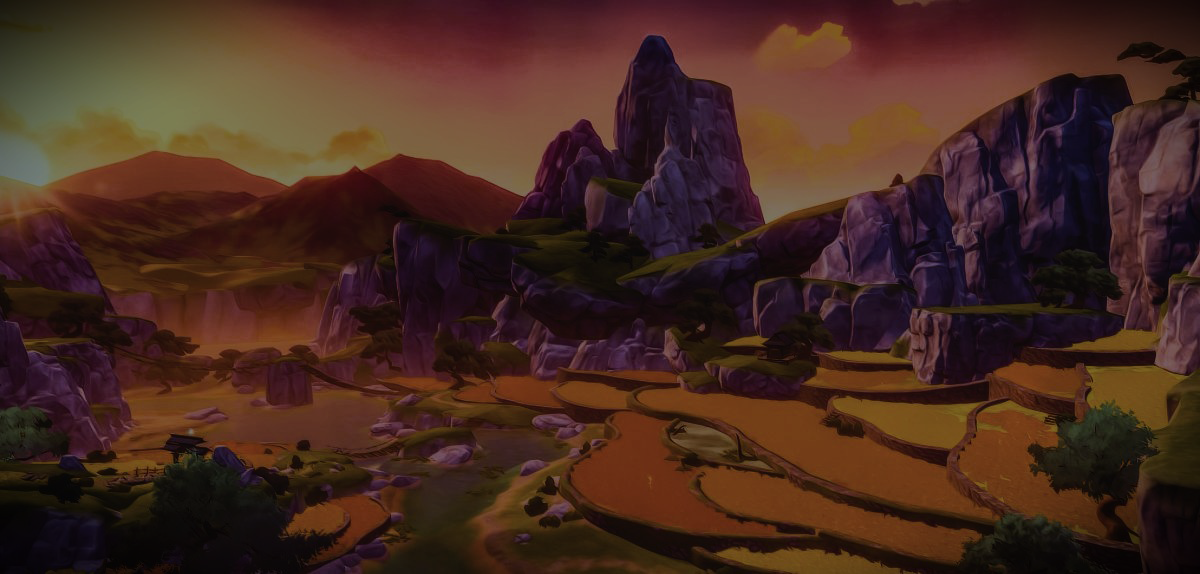
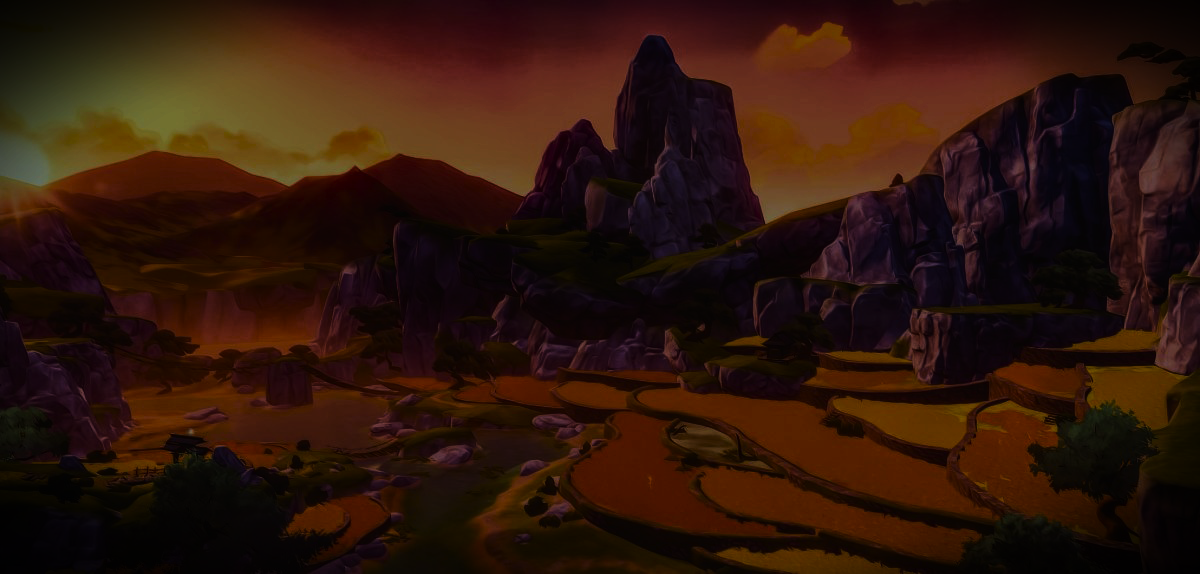
тема сохраняется в localStorege

diff --git a/html/Characters_page/Kaveh.html b/html/Characters_page/Kaveh.html
@@ -16,7 +16,7 @@
         </div>
         <div class="menu">
             <p class="pp1"><a href="../news.html">Новости</a> <a href="../region.html">Регионы</a> <a href="../elements.html">Стихии</a> <a href="../characters.html">Персонажи</a> <a href="../enemies.html">Враги</a> <a href="../tests.html">Тесты</a></p>
-            <button id="tema">Ночь</button>
+            <button id="tema"></button>
         </div>
         <div class="content">
             <h1>Кавех</h1>
@@ -46,16 +46,48 @@
             
             
             <h2>О персонаже:</h2>
-            <p>Земля Сумеру неистощима талантами, здесь живёт целая плеяда известных дизайнеров. Но когда речь заходит об архитекторах, люди первым делом вспоминают имя Кавеха. Выпускник Кшахревара, он считается лучшим архитектором последних десятилетий. Его называют Светочем Кшахревара. Однако сам Кавех не воспринимает похвалы всерьёз. Безусловно, слава и известность означают признание, но подчас они становятся для человека тяжёлым бременем. Известность вынуждает Кавеха вдвойне стыдиться своего банкротства. Обычному человеку ничего не стоит признаться, что он на мели, другое дело - когда ты знаменитый архитектор: подобные признания могут попросту испортить твою репутацию. Поэтому Кавех избегает разговоров о своём финансовом положении и делает вид, что его жизнь прекрасна и беззаботна. К счастью, люди этому верят, ведь он выдающийся архитектор с уникальным чувством прекрасного. Разве может быть, чтобы великий Кавех страдал от каких-то житейских неурядиц?</p>
+            <p>Земля Сумеру неистощима талантами, здесь живёт целая плеяда известных дизайнеров.
+                Но когда речь заходит об архитекторах, люди первым делом вспоминают имя Кавеха.
+                Выпускник Кшахревара, он считается лучшим архитектором последних десятилетий. Его называют Светочем Кшахревара. Однако сам Кавех не воспринимает похвалы всерьёз. Безусловно, слава и известность означают признание, но подчас они становятся для человека тяжёлым бременем. Известность вынуждает Кавеха вдвойне стыдиться своего банкротства. Обычному человеку ничего не стоит признаться, что он на мели, другое дело - когда ты знаменитый архитектор: подобные признания могут попросту испортить твою репутацию. Поэтому Кавех избегает разговоров о своём финансовом положении и делает вид, что его жизнь прекрасна и беззаботна. К счастью, люди этому верят, ведь он выдающийся архитектор с уникальным чувством прекрасного. Разве может быть, чтобы великий Кавех страдал от каких-то житейских неурядиц?</p>
             
             <h2>История 1(ур др 2):</h2>
-            <p>Даже сегодня возле дворца Алькасар-сарай или в стенах Академии можно услышать, как студенты Кшахревара обсуждают Кавеха, своего знаменитого предшественника. Для них он гений, выдающийся архитектор, которому не было равных на протяжении всех последних десятилетий. Невероятное мастерство позволило Кавеху вписать своё имя в анналы Академии. При встрече со студентами из Кшахревара вам наверняка придётся выслушать, как сильно они восхищаются достижениями своего предшественника: чего стоит один дворец Алькасар-сарай, построенный по его проекту. А реставрация культового маяка в Порт-Ормосе, а реконструкция системы транспортных и подъёмных устройств в том же Порт-Ормосе! А ещё он первым предложил метод экологической оптимизации пространства! Все эти достижения сделали имя Кавеха нарицательным при определении успеха на архитектурном поприще. Многие коллеги мечтают о такой карьере: блестящий студент, которого сразу после выпуска пригласили работать в престижное архитектурное бюро, а через несколько лет он основал своё собственное дело. На этом все рассказы непосвящённых обычно заканчиваются: никто не знает правды, которую сам Кавех всеми силами старается скрыть. Он талантлив, этого не отнять, но вот жизнь Кавеха, к сожалению, далека от идеала, который представляют себе непосвящённые. Резюмируя свой прошлый опыт, Кавех сказал бы так: недоразумения досадны, но неизбежны. Люди иногда оказываются в плену стереотипов. Например, они представляют, что архитекторы загребают мору лопатой и становятся знаменитыми, сделав пару росчерков пера на бумаге. В глазах людей любой художник - ленивый, эгоцентричный, вспыльчивый и импульсивный человек, который любит покомандовать другими. Кавех не подходит под это описание. Его проекты отнимают много времени и усилий, и он очень серьёзно относится к работе. Он одевается элегантно и изысканно, но не судит о достоинстве проекта только по размеру вознаграждения. Его профессиональные принципы намного твёрже, чем у большинства жителей Сумеру, он считает архитектуру производным от искусства, но не позволяет себе жертвовать удобством и практичностью в угоду эстетике. Чтобы проект сочетал в себе красоту и функциональность, Кавех готов пойти на некоторые жертвы... Иногда он жертвует лишним декором, иногда - своими выходными, а иногда... даже вознаграждением. Долгие годы упорного труда привели его к успеху. Дворец Алькасар-сарай был завершён, и Кавех вернулся в Сумеру, увенчанный славой. Его коллеги без умолку хвалили легендарный дворец на вершине большого дерева, поражаясь необыкновенной фантазией его создателя. Они восхищались сочетанием функциональности и нарратива, точности в деталях и совершенства линий, благодаря которому дворец буквально преобразил горы, среди которых был построен. Никто не посмел сказать, что Алькасар-сарай был просто успешной авантюрой Кавеха. И никто не знал, что излишняя принципиальность в сочетании с чередой неудач на проекте привела Кавеха к банкротству. Правда скрыта от людей так же надёжно, как усилия, которые помогли Кавеху добиться успеха.</p>
+            <p>Даже сегодня возле дворца Алькасар-сарай или в стенах Академии можно услышать, как студенты Кшахревара обсуждают Кавеха, своего знаменитого предшественника.
+                Для них он гений, выдающийся архитектор, которому не было равных на протяжении всех последних десятилетий.
+                Невероятное мастерство позволило Кавеху вписать своё имя в анналы Академии.
+                При встрече со студентами из Кшахревара вам наверняка придётся выслушать, как сильно они восхищаются достижениями своего предшественника: чего стоит один дворец Алькасар-сарай, построенный по его проекту. А реставрация культового маяка в Порт-Ормосе, а реконструкция системы транспортных и подъёмных устройств в том же Порт-Ормосе! А ещё он первым предложил метод экологической оптимизации пространства! Все эти достижения сделали имя Кавеха нарицательным при определении успеха на архитектурном поприще. Многие коллеги мечтают о такой карьере: блестящий студент, которого сразу после выпуска пригласили работать в престижное архитектурное бюро, а через несколько лет он основал своё собственное дело. На этом все рассказы непосвящённых обычно заканчиваются: никто не знает правды, которую сам Кавех всеми силами старается скрыть. Он талантлив, этого не отнять, но вот жизнь Кавеха, к сожалению, далека от идеала, который представляют себе непосвящённые. Резюмируя свой прошлый опыт, Кавех сказал бы так: недоразумения досадны, но неизбежны. Люди иногда оказываются в плену стереотипов. Например, они представляют, что архитекторы загребают мору лопатой и становятся знаменитыми, сделав пару росчерков пера на бумаге. В глазах людей любой художник - ленивый, эгоцентричный, вспыльчивый и импульсивный человек, который любит покомандовать другими. Кавех не подходит под это описание. Его проекты отнимают много времени и усилий, и он очень серьёзно относится к работе. Он одевается элегантно и изысканно, но не судит о достоинстве проекта только по размеру вознаграждения. Его профессиональные принципы намного твёрже, чем у большинства жителей Сумеру, он считает архитектуру производным от искусства, но не позволяет себе жертвовать удобством и практичностью в угоду эстетике. Чтобы проект сочетал в себе красоту и функциональность, Кавех готов пойти на некоторые жертвы... Иногда он жертвует лишним декором, иногда - своими выходными, а иногда... даже вознаграждением. Долгие годы упорного труда привели его к успеху. Дворец Алькасар-сарай был завершён, и Кавех вернулся в Сумеру, увенчанный славой. Его коллеги без умолку хвалили легендарный дворец на вершине большого дерева, поражаясь необыкновенной фантазией его создателя. Они восхищались сочетанием функциональности и нарратива, точности в деталях и совершенства линий, благодаря которому дворец буквально преобразил горы, среди которых был построен. Никто не посмел сказать, что Алькасар-сарай был просто успешной авантюрой Кавеха. И никто не знал, что излишняя принципиальность в сочетании с чередой неудач на проекте привела Кавеха к банкротству.
+                Правда скрыта от людей так же надёжно, как усилия, которые помогли Кавеху добиться успеха.</p>
 
             <h2>История 2(ур др 3):</h2>
-            <p>Кавех родился в классической семье учёных. Отец окончил Ртавахист и работал в Академии, мать некогда училась в Кшахреваре и была известным в Сумеру архитектором, как впоследствии и сам Кавех. Под влиянием родителей Кавех с раннего детства интересовался архитектурой и строительством. Они часто сидели втроём в гостиной, Кавех играл в кубики, родители отдыхали. Они могли разговаривать даже без слов и всегда оставались настоящей семьёй. Тогда Кавех и узнал, что такое семья и дом. Счастливые времена скоро кончились. Незадолго до поступления Кавеха в Академию отец, поддавшись на его уговоры, решил принять участие в Турнире даршанов. Задания были не слишком сложными, и отец считался главным претендентом на победу, но всё же занял второе место, пусть и с небольшим отрывом от победителя. А после Турнира отец исчез, и вскоре домой пришла ужасная весть: отец Кавеха погиб в пустыне. Это было как гром среди ясного неба. Особенно сильно страдала мать Кавеха, она всегда была чувствительной натурой, и уход мужа совершенно её сломил, дни и недели она проводила в тревоге и тоске. А Кавех каждую ночь во сне видел, как отец улыбается ему и обещает, что вернётся домой с подарками. Кавех понимал, что отец не стал бы участвовать в Турнире даршанов, если бы не поддался на его уговоры. И не исчез бы после Турнира, и не погиб бы в пустыне. Но все мольбы были напрасны: прошлого не изменить. Смерть отца, горе матери... Всё это случилось из-за слов, которые он уже не мог вернуть назад. С этого дня он всегда будет жить в тени своей вины. Мать говорила, что отец был человеком с добрым сердцем и что жизнь рядом с ним была настоящим счастьем. После смерти отца она никогда больше не улыбалась. Их некогда тёплый и светлый дом превратился в скопление холодных пустынных комнат. Кавех часто видел, как мать сидит на диване, молча разглядывая свои дрожащие руки. Она больше ничего не могла нарисовать, даже мысли её путались. В каждую такую минуту Кавех чувствовал, как гигантская рука придавливает его к земле, он говорил себе: «Если бы не я, дома всё было бы совсем иначе». Он был ещё очень молод и мало что мог изменить. Терзаемый виной, он старался проводить как можно больше времени с матерью, не показывать своего горя, поддерживал её как мог, хотя знал, что его поддержка мало чем поможет. В такой обстановке Кавех достиг возраста поступления в Академию, сдал экзамены и был зачислен в даршан Кшахревар. Естественно, это означало, что отныне он будет проводить меньше времени с матерью. Пытаясь отвлечься, она отправилась в Фонтейн. Там она получила предложение о работе и по возвращении в Сумеру сообщила эту новость Кавеху. Кавех знал, что ему будет очень одиноко без матери, но всё равно согласился и отправился проводить её в день отъезда. Он долго смотрел вслед кораблю, покинувшему гавань. Он не хотел расставаться с матерью, но знал, что ей будет лучше уехать из края, который принёс ей столько боли. Не желая расстраивать мать, Кавех не признавался, как ему одиноко. Он заверил мать, что уже вырос и готов к самостоятельной жизни. Тем хуже было на душе, когда он просыпался посреди ночи от одиночества, боли или воспоминаний о некогда счастливой семье. Это было наказанием за то, что он уговорил отца участвовать в Турнире. Именно он виноват в горе, постигшем его семью, а значит, страдания заслуженны. Подобные мысли преследовали его день за днём. Можно сказать, что семья научила Кавеха заботиться о других, а ещё лишила его способности причинять вред кому-либо. Многие годы спустя он обнаружил, что оказался в ловушке своего характера и идеалов: он хочет помочь всем и каждому, кто просит его о помощи, и просто не умеет отказывать. И никакие добрые дела не избавили его от чувства вины. Он не способен проявить доброту к самому себе, потому что чувствует, что должен быть наказан за любой свой выбор. Если изобразить Кавеха в скульптуре, он будет статуей без единого видимого изъяна, которая полностью разрушится, стоит только обнаружить слабое место в её сердцевине.</p>
+            <p>Кавех родился в классической семье учёных.
+                Отец окончил Ртавахист и работал в Академии, мать некогда училась в Кшахреваре и была известным в Сумеру архитектором, как впоследствии и сам Кавех.
+                Под влиянием родителей Кавех с раннего детства интересовался архитектурой и строительством.
+                Они часто сидели втроём в гостиной, Кавех играл в кубики, родители отдыхали.
+                Они могли разговаривать даже без слов и всегда оставались настоящей семьёй.
+                Тогда Кавех и узнал, что такое семья и дом. Счастливые времена скоро кончились.
+                Незадолго до поступления Кавеха в Академию отец, поддавшись на его уговоры, решил принять участие в Турнире даршанов.
+                Задания были не слишком сложными, и отец считался главным претендентом на победу, но всё же занял второе место, пусть и с небольшим отрывом от победителя. А после Турнира отец исчез, и вскоре домой пришла ужасная весть: отец Кавеха погиб в пустыне. Это было как гром среди ясного неба. Особенно сильно страдала мать Кавеха, она всегда была чувствительной натурой, и уход мужа совершенно её сломил, дни и недели она проводила в тревоге и тоске.
+                А Кавех каждую ночь во сне видел, как отец улыбается ему и обещает, что вернётся домой с подарками.
+                Кавех понимал, что отец не стал бы участвовать в Турнире даршанов, если бы не поддался на его уговоры.
+                И не исчез бы после Турнира, и не погиб бы в пустыне. Но все мольбы были напрасны: прошлого не изменить.
+                Смерть отца, горе матери... Всё это случилось из-за слов, которые он уже не мог вернуть назад.
+                С этого дня он всегда будет жить в тени своей вины.
+                Мать говорила, что отец был человеком с добрым сердцем и что жизнь рядом с ним была настоящим счастьем.
+                После смерти отца она никогда больше не улыбалась. Их некогда тёплый и светлый дом превратился в скопление холодных пустынных комнат.
+                Кавех часто видел, как мать сидит на диване, молча разглядывая свои дрожащие руки.
+                Она больше ничего не могла нарисовать, даже мысли её путались. В каждую такую минуту Кавех чувствовал, как гигантская рука придавливает его к земле, он говорил себе: «Если бы не я, дома всё было бы совсем иначе». Он был ещё очень молод и мало что мог изменить. Терзаемый виной, он старался проводить как можно больше времени с матерью, не показывать своего горя, поддерживал её как мог, хотя знал, что его поддержка мало чем поможет. В такой обстановке Кавех достиг возраста поступления в Академию, сдал экзамены и был зачислен в даршан Кшахревар. Естественно, это означало, что отныне он будет проводить меньше времени с матерью. Пытаясь отвлечься, она отправилась в Фонтейн. Там она получила предложение о работе и по возвращении в Сумеру сообщила эту новость Кавеху. Кавех знал, что ему будет очень одиноко без матери, но всё равно согласился и отправился проводить её в день отъезда. Он долго смотрел вслед кораблю, покинувшему гавань. Он не хотел расставаться с матерью, но знал, что ей будет лучше уехать из края, который принёс ей столько боли. Не желая расстраивать мать, Кавех не признавался, как ему одиноко. Он заверил мать, что уже вырос и готов к самостоятельной жизни. Тем хуже было на душе, когда он просыпался посреди ночи от одиночества, боли или воспоминаний о некогда счастливой семье. Это было наказанием за то, что он уговорил отца участвовать в Турнире. Именно он виноват в горе, постигшем его семью, а значит, страдания заслуженны. Подобные мысли преследовали его день за днём. Можно сказать, что семья научила Кавеха заботиться о других, а ещё лишила его способности причинять вред кому-либо. Многие годы спустя он обнаружил, что оказался в ловушке своего характера и идеалов: он хочет помочь всем и каждому, кто просит его о помощи, и просто не умеет отказывать. И никакие добрые дела не избавили его от чувства вины. Он не способен проявить доброту к самому себе, потому что чувствует, что должен быть наказан за любой свой выбор.
+                Если изобразить Кавеха в скульптуре, он будет статуей без единого видимого изъяна, которая полностью разрушится, стоит только обнаружить слабое место в её сердцевине.</p>
 
             <h2>История 3(ур др 4):</h2>
-            <p>После выпуска Кавех устроился работать в архитектурное бюро под руководством других выпускников и преподавателей Кшахревара. У него было совсем мало опыта, и он оказался буквально завален сложными проектами. Но Кавех всегда считал себя упорным человеком, и теперь всё своё время и силы он отдавал работе. Целых два года он постоянно мотался между разными проектами, днями и ночами работая на других. Набравшись опыта, Кавех уволился из архитектурного бюро и открыл своё дело, у него появились клиенты, которым нравился его стиль. Многие обращались к нему, чтобы разработать архитектурный проект. Это было самое начало его карьеры, но благодаря упорному труду Кавеху удалось скопить приличную сумму. Но вскоре Кавех столкнулся с затруднениями. Рынок оказался намного прагматичнее, чем их учили в Академии, здесь всем правила мора, и подчас исполнить запросы клиентов было куда труднее, чем удовлетворить требования наставников в Кшахреваре. Кроме того, новые веяния в Академии тоже изрядно мешали Кавеху в работе. Он начал понимать, что его знакомый был прав: совместить карьеру и идеалы совсем не просто. Научные школы и течения в Сумеру постоянно менялись, многие учёные были открыты для критики и рефлексии, а изменения и улучшения в общественном устройстве только способствовали продвижению такого образа мыслей. Поэтому некогда почитаемые объекты в один прекрасный день могли оказаться под градом критики, как это случилось с печатными книгами или произведениями искусства. Но кроме вовлечённых людей, никто не знал, какая участь постигла в Сумеру работников искусства. По мере роста значимости академических достижений учёные стали всё больше внимания уделять чистой науке и прикладным технологиям. Постепенно идеи мудрецов радикализировались, и мысль о бесполезности искусства распространилась по всему обществу. Работники искусства превратились в парий, а дисциплины, которые были хоть как-то связаны с искусством, просто отбрасывались. Многие проекты, в которых принимал участие Кавех, теперь больше напоминали конвейер. Его предложения отклонялись заказчиками на том основании, что они «излишне перегружают объект», а «все элементы архитектуры должны быть исключительно функциональны». Раньше он стремился сочетать в каждом своём проекте эстетику и утилитарность. Но теперь искусство стало объектом насмешек, люди отрицали необходимость и ценность его существования. Поэтому у Кавеха почти не осталось свободы в работе. Он всегда считал архитектуру видом искусства и был категорически не согласен с распространённым мнением о его бессмысленности. Но в работе ему требовалась техническая поддержка и инвестиции, поэтому он не мог порвать связь с теми, кто считал иначе, и тем более не мог свободно выражать своё мнение - это повлекло бы отзыв инвестиций и бросило тень на многих его коллег. Работа вынуждала Кавеха предавать свои идеалы, и он решил взять длинный отпуск. Вернувшись домой, он получил письмо из Фонтейна. Мать писала, что встретила человека, с которым хочет провести остаток жизни, что собирается выйти за него замуж и ждёт свадьбы с трепетом и надеждой. Кавех ответил на письмо искренними пожеланиями счастья и отправился в Фонтейн поздравить мать с новым замужеством. Свадебная церемония прошла просто и скромно, гостей пришло немного. Сначала Кавех обрадовался, вновь увидев на лице матери улыбку, но потом почувствовал странную растерянность. Мать оставила ему всё своё имущество в Сумеру. Вернувшись в Сумеру три дня спустя, он с новой силой почувствовал пустоту в родительском доме. Он лежал на диване, ощущая небывалое прежде одиночество. Теперь он понял, как правы были мудрые учёные прошлого: «Живи по совести, даже если придётся отдать за это всё, что у тебя есть».</p>
+            <p>После выпуска Кавех устроился работать в архитектурное бюро под руководством других выпускников и преподавателей Кшахревара.
+                У него было совсем мало опыта, и он оказался буквально завален сложными проектами.
+                Но Кавех всегда считал себя упорным человеком, и теперь всё своё время и силы он отдавал работе.
+                Целых два года он постоянно мотался между разными проектами, днями и ночами работая на других.
+                Набравшись опыта, Кавех уволился из архитектурного бюро и открыл своё дело, у него появились клиенты, которым нравился его стиль.
+                Многие обращались к нему, чтобы разработать архитектурный проект.
+                Это было самое начало его карьеры, но благодаря упорному труду Кавеху удалось скопить приличную сумму.
+                Но вскоре Кавех столкнулся с затруднениями.
+                Рынок оказался намного прагматичнее, чем их учили в Академии, здесь всем правила мора, и подчас исполнить запросы клиентов было куда труднее, чем удовлетворить требования наставников в Кшахреваре. Кроме того, новые веяния в Академии тоже изрядно мешали Кавеху в работе. Он начал понимать, что его знакомый был прав: совместить карьеру и идеалы совсем не просто. Научные школы и течения в Сумеру постоянно менялись, многие учёные были открыты для критики и рефлексии, а изменения и улучшения в общественном устройстве только способствовали продвижению такого образа мыслей. Поэтому некогда почитаемые объекты в один прекрасный день могли оказаться под градом критики, как это случилось с печатными книгами или произведениями искусства. Но кроме вовлечённых людей, никто не знал, какая участь постигла в Сумеру работников искусства. По мере роста значимости академических достижений учёные стали всё больше внимания уделять чистой науке и прикладным технологиям. Постепенно идеи мудрецов радикализировались, и мысль о бесполезности искусства распространилась по всему обществу. Работники искусства превратились в парий, а дисциплины, которые были хоть как-то связаны с искусством, просто отбрасывались. Многие проекты, в которых принимал участие Кавех, теперь больше напоминали конвейер. Его предложения отклонялись заказчиками на том основании, что они «излишне перегружают объект», а «все элементы архитектуры должны быть исключительно функциональны». Раньше он стремился сочетать в каждом своём проекте эстетику и утилитарность. Но теперь искусство стало объектом насмешек, люди отрицали необходимость и ценность его существования. Поэтому у Кавеха почти не осталось свободы в работе. Он всегда считал архитектуру видом искусства и был категорически не согласен с распространённым мнением о его бессмысленности. Но в работе ему требовалась техническая поддержка и инвестиции, поэтому он не мог порвать связь с теми, кто считал иначе, и тем более не мог свободно выражать своё мнение - это повлекло бы отзыв инвестиций и бросило тень на многих его коллег. Работа вынуждала Кавеха предавать свои идеалы, и он решил взять длинный отпуск. Вернувшись домой, он получил письмо из Фонтейна. Мать писала, что встретила человека, с которым хочет провести остаток жизни, что собирается выйти за него замуж и ждёт свадьбы с трепетом и надеждой. Кавех ответил на письмо искренними пожеланиями счастья и отправился в Фонтейн поздравить мать с новым замужеством. Свадебная церемония прошла просто и скромно, гостей пришло немного. Сначала Кавех обрадовался, вновь увидев на лице матери улыбку, но потом почувствовал странную растерянность. Мать оставила ему всё своё имущество в Сумеру. Вернувшись в Сумеру три дня спустя, он с новой силой почувствовал пустоту в родительском доме. Он лежал на диване, ощущая небывалое прежде одиночество.
+                Теперь он понял, как правы были мудрые учёные прошлого: «Живи по совести, даже если придётся отдать за это всё, что у тебя есть».</p>
 
             <h2>История 4(ур др 5):</h2>
             <p>По мере того как Кавех продолжал работать в строительстве, его недовольство нынешним состоянием общества становилось всё сильнее. Именно тогда наступил переломный момент. Богатая негоциантка, госпожа Сангема-бай, обратилась к нему с заказом на строительство частного особняка.
@@ -79,7 +111,11 @@
                 Если кто-то хочет положить всё состояние на алтарь своих идеалов, кто она такая, чтобы останавливать? Строительство - это в конечном счёте просто торговля, но идеалы бесценны. Что же до того, как Кавех впоследствии оказался бездомным, то это уже совсем другая история.</p>
 
             <h2>История 5(ур др 6):</h2>
-            <p>Обанкротившись, Кавех впал в депрессию. Алькасар-сарай ненадолго заполнил дыру в его сердце, но в то же время он в очередной раз убедился, что, сколько бы он ни делал для достижения своих идеалов, этого всегда было недостаточно. У него не осталось ориентиров, и он увяз в мире, где и шагу ступить нельзя без моры. Кавех с юных лет привык сохранять достоинство и не хотел говорить своим коллегам и друзьям, что остался почти без единой моры в кармане и вынужден был продать всё своё имущество. Он отправился в таверну, где заказал несколько бутылок и предался болтовне, чтобы утешить себя. После первой же бутылки он уснул за столом, а потом очнулся на том же самом месте.
+            <p>Обанкротившись, Кавех впал в депрессию. Алькасар-сарай ненадолго заполнил дыру в его сердце, но в то же время он в очередной раз убедился, что, сколько бы он ни делал для достижения своих идеалов, этого всегда было недостаточно.
+                У него не осталось ориентиров, и он увяз в мире, где и шагу ступить нельзя без моры.
+                Кавех с юных лет привык сохранять достоинство и не хотел говорить своим коллегам и друзьям, что остался почти без единой моры в кармане и вынужден был продать всё своё имущество.
+                Он отправился в таверну, где заказал несколько бутылок и предался болтовне, чтобы утешить себя.
+                После первой же бутылки он уснул за столом, а потом очнулся на том же самом месте.
 
                 Ламбад, владелец таверны, по доброте душевной выделил ему место и бесплатные напитки, а в благодарность Кавех помог ему обустроить зону отдыха на втором этаже таверны. Время от времени он встречал здесь друзей со времён учёбы в Академии, и с ними он делал вид, что пришёл просто выпить и почерпнуть вдохновения. Так он провёл больше двух недель, пока не встретил того, кого больше не называл другом.
                 
@@ -103,7 +139,8 @@
                 
                 Нельзя сдаваться. Даже если человек пытается что-то исправить, делая добро, результаты будут иметь значение для других. Даже если он не смог попасть в обетованную землю своих идеалов, это не значит, что сияние и притягательность этого царства следует отрицать.
                 
-                Призрачные реалии, вроде той, как он волею судеб оказался бездомным в доме своего друга, или как этот дом, теперь уже принадлежащий секретарю, когда-то выделила им Академия, или как этот излишний академический актив вообще не превратился бы в жильё в результате многочисленных схем, если бы Кавех не решил от него отказаться... Или как, хорошо зная, что аль-Хайтам никогда не делал добрых дел просто так, Кавех мучился совестью и упреждающе заговорил о помощи по хозяйству, а в результате на него сваливались все дела по дому... Это может быть раздражающим фактором для человека, находящегося на дне, но это также является доказательством того, что друг, которого нельзя изменить, - это и есть незыблемое прошлое, которое может быть у человека в жизни. Рациональность и чувствительность, язык и архитектура, знания и человеческие чувства... Вещи, которые невозможно объединить, составляют две стороны зеркала, отражающего сам мир.</p>
+                Призрачные реалии, вроде той, как он волею судеб оказался бездомным в доме своего друга, или как этот дом, теперь уже принадлежащий секретарю, когда-то выделила им Академия, или как этот излишний академический актив вообще не превратился бы в жильё в результате многочисленных схем, если бы Кавех не решил от него отказаться... Или как, хорошо зная, что аль-Хайтам никогда не делал добрых дел просто так, Кавех мучился совестью и упреждающе заговорил о помощи по хозяйству, а в результате на него сваливались все дела по дому... Это может быть раздражающим фактором для человека, находящегося на дне, но это также является доказательством того, что друг, которого нельзя изменить, - это и есть незыблемое прошлое, которое может быть у человека в жизни. Рациональность и чувствительность, язык и архитектура, знания и человеческие чувства...
+                Вещи, которые невозможно объединить, составляют две стороны зеркала, отражающего сам мир.</p>
 
             <h2>Старый альбом</h2>
             <p>Старый толстый альбом в кожаной обложке. В нём не только рисунки, но и вырезки. Владелец, видимо, использовал его как своего рода книгу памяти.

diff --git a/html/elements.html b/html/elements.html
@@ -16,9 +16,20 @@
         </div>
         <div class="menu">
             <p class="pp1"><a href="news.html">Новости</a> <a href="region.html">Регионы</a> <a href="elements.html">Стихии</a> <a href="characters.html">Персонажи</a> <a href="enemies.html">Враги</a> <a href="tests.html">Тесты</a></p>
-            <button id="tema">Ночь</button>
+            <button id="tema"></button>
         </div>
+        
         <div class="content">
+            <div class="stichia">
+                <button value="anemo">Анемо</button>
+                <button value="geo">Гео</button>
+                <button value="electro">Электро</button>
+                <button value="dendro">Дендро</button>
+                <button value="hydro">Гидро</button>
+                <button value="pyro">Пиро</button>
+                <button value="crio">Крио</button>
+                
+            </div>
             <p><!--выделить-->Элементы — особые эффекты статуса и типы урона, которые могут накладываться в определённых порядках для запуска элементальных реакций.</p>
             <p>Некоторые люди в Тейвате таинственным образом получают Глаз Бога, который является внешним аппаратом, позволяющем его владельцу владеть элементом. Глаз Бога имеют форму кристаллов, каждый с символом и цветом одного элемента. В зависимости от региона, в котором человек получил свой Глаз Бога, он имеет орнаменты, характерный для этого региона.</p>
             <p>Когда Бог Истоков умирает, его Глаз Бога становится свободным Глазом Бога, теряя свою силу и показатели своего элемента. Иногда свободный Глаз Бога резонирует с новым человеком. По этой причине свободный Глаз Бога является товаром, к которому стремятся чрезвычайно богатые.</p>
@@ -36,24 +47,7 @@
                 <li>Путешественник(ца) является единственным играбельным персонажем в игре, чей элемент может быть изменён. Резонирование со статуями семи Архонтов из разных регионов изменит элемент Путешественника(цы) в зависимости от области, в которой происходит резонирование (например, резонирование со статуей семи Архонтов в Ли Юэ приведёт к изменению элемента Путешественника(цы) на Гео). Ни один другой играбельный персонаж не может изменить свой элемент, включая персонажей, которые могут канонически владеть более чем одним элементом, такими как Тарталья (у него есть Гидро Глаз Бога и Электро Глаз Порчи, но как играбельный персонаж, Тарталья владеет только элементом Гидро) и Кадзуха (который ненадолго резонировал с Электро Глазом Бога, в дополнение к своему собственному Анемо Глазу Бога).</li>
             </ul>
 
-            <h1>Анемо</h1>
             
-            
-            <h1>Гео</h1>
-            
-            
-            <h1>Электро</h1>
-            
-
-            <h1>Дендро</h1>
-            
-
-            <h1>Гидро</h1>
-            
-
-            <h1>Пиро</h1>
-
-            <h1>Крио</h1>
         </div>
         <div class="basement">
             <p><a href="news.html">Новости</a> <a href="region.html">Регионы</a> <a href="elements.html">Стихии</a> <a href="characters.html">Персонажи</a> <a href="enemies.html">Враги</a> <a href="tests.html">Тесты</a></p>

diff --git a/css/news.css b/css/news.css
@@ -6,22 +6,35 @@
 
 
 @media (width >= 1300px){
-    button{
-        background-color: var(--bg-color-button);
-        float: right;
-        margin: -44px 30px 0px 0px;
-    }
     body{
         background-color: var(--bg-color);/*фоновая картинка, если ее нет, то фоновый цвет*/
         background-image: var(--bg--image);
         background-size: 100% ;
         background-repeat:no-repeat;
         background-attachment: fixed ;
+        transition: .4s;
     }
     .container{ 
         display: grid;
         grid-template-columns: repeat(12, 1fr);/*грид 12 столюиков*/
     }
+    .stichia{
+        /*position:relative;*/
+        /*width: 82.5%;*/
+        background-color: var(--bg-color-stihia);
+        height: 70px;
+        text-align: center;
+    }
+    .stichia button{
+        height: 40px;
+        width: 100px;
+        margin: 15px 20px 0px 20px;
+        position: relative;
+        border: 0px;
+        border-radius: 10px;
+        background-color: var(--bg-color-purple);
+    }
+
     
     
     
@@ -44,7 +57,6 @@
     .logo{
         background-color: var(--bg-color-orange);/*расположение div с логотипом и названием*/
         height: 76px;
-        position: fixed;
         width: 23%;
         position: fixed;
         margin-top: -0.6%;

diff --git a/css/anemo.css b/css/anemo.css
@@ -6,17 +6,21 @@
     --bg-color-yellowgreen: rgba(255, 255, 255, 0.8);
     --bg-color-lightpink: rgb(103, 217, 200);
     --bg-color-button: rgb(103, 217, 200);
+    --bg-color-text: #000000;
+    --bg-color-icon: url(../images/Logo_light.png);
     .menu a{color: rgb(0, 0, 0);}
     .basement a{color: rgb(0, 0, 0);}
 }
 [dark] {
     --bg--image: url(../images/background/фон_анемо_ночь.jpg);
-    --bg-color: rgb(16, 48, 39);
-    --bg-color-orange: rgb(11, 34, 27);
-    --bg-color-purple: rgb(29, 68, 57);
-    --bg-color-yellowgreen: rgba(11, 34, 27, 0.9);
-    --bg-color-lightpink: rgb(11, 34, 27);
-    --bg-color-button: rgb(11, 34, 27);
+    --bg-color: rgb(5, 18, 14);
+    --bg-color-orange: rgb(5, 18, 14);
+    --bg-color-purple: rgb(11, 34, 27);
+    --bg-color-yellowgreen: rgba(5, 18, 14, 0.9);
+    --bg-color-lightpink: rgb(5, 18, 14);
+    --bg-color-button: rgb(5, 18, 14);
+    --bg-color-text: rgb(149, 255, 225);
+    --bg-color-icon: url(../images/Logo_dark.png);
     .menu a{color: rgb(149, 255, 225);}
     .basement a{color: rgb(149, 255, 225);}
     p, ul, li{color: rgb(255, 255, 255);}

diff --git a/css/hydro.css b/css/hydro.css
@@ -6,17 +6,21 @@
     --bg-color-yellowgreen: rgba(255, 255, 255, 0.8);
     --bg-color-lightpink: rgb(39, 161, 241);
     --bg-color-button: rgb(39, 161, 241);
+    --bg-color-text: rgb(0, 0, 0);
+    --bg-color-icon: url(../images/Logo_light.png);
     .menu a{color: rgb(0, 0, 0);}
     .basement a{color: rgb(0, 0, 0);}
 }
 [dark] {
     --bg--image: url(../images/background/фон_гидро_ночь.jpg);
-    --bg-color: rgb(49, 71, 179);
-    --bg-color-orange: rgb(8, 12, 35);
-    --bg-color-purple: rgb(9, 18, 70);
-    --bg-color-yellowgreen: rgba(8, 12, 35, 0.8);
-    --bg-color-lightpink: rgb(8, 12, 35);
-    --bg-color-button: rgb(8, 12, 35);
+    --bg-color: rgb(4, 6, 19);
+    --bg-color-orange: rgb(4, 6, 19);
+    --bg-color-purple: rgb(8, 12, 35);
+    --bg-color-yellowgreen: rgba(4, 6, 19, 0.9);
+    --bg-color-lightpink: rgb(4, 6, 19);
+    --bg-color-button: rgb(4, 6, 19);
+    --bg-color-text: rgb(95, 194, 255);
+    --bg-color-icon: url(../images/Logo_dark.png);
     .menu a{color: rgb(95, 194, 255);}
     .basement a{color: rgb(95, 194, 255);}
     p, ul, li{color: rgb(255, 255, 255);}

diff --git a/html/enemies.html b/html/enemies.html
@@ -16,7 +16,7 @@
         </div>
         <div class="menu">
             <p class="pp1"><a href="news.html">Новости</a> <a href="region.html">Регионы</a> <a href="elements.html">Стихии</a> <a href="characters.html">Персонажи</a> <a href="enemies.html">Враги</a> <a href="tests.html">Тесты</a></p>
-            <button id="tema">Ночь</button>
+            <button id="tema"></button>
         </div>
         <div class="content">
             <p>Враги и монстры в Genshin Impact — недружелюбно настроенные по отношению к игроку существа, которые могут быть побеждены в бою. Они могут быть классифицированы в зависимости от сложности (обычные враги, элитные враги, обычные и еженедельные боссы) или по семейству, к которому они принадлежит (похитители сокровищ, фатуи, хиличурлы и прочие).</p>

diff --git a/css/geo.css b/css/geo.css
@@ -6,17 +6,21 @@
     --bg-color-yellowgreen: rgba(255, 255, 255, 0.8);
     --bg-color-lightpink: rgb(253, 193, 90);
     --bg-color-button: rgb(240, 166, 37);
+    --bg-color-text: #000000;
+    --bg-color-icon: url(../images/Logo_light.png);
     .menu a{color: rgb(0, 0, 0);}
     .basement a{color: rgb(0, 0, 0);}
 }
 [dark] {
     --bg--image: url(../images/background/фон_гео_ночь.png);
-    --bg-color: rgb(36, 21, 5);
-    --bg-color-orange: rgb(36, 21, 5);
-    --bg-color-purple: rgb(66, 38, 9);
-    --bg-color-yellowgreen: rgba(36, 21, 5, 0.8);
-    --bg-color-lightpink: rgb(36, 21, 5);
-    --bg-color-button: rgb(36, 21, 5);
+    --bg-color: rgb(12, 6, 0);
+    --bg-color-orange: rgb(12, 6, 0);
+    --bg-color-purple: rgb(26, 15, 3);
+    --bg-color-yellowgreen: rgba(14, 7, 0, 0.9);
+    --bg-color-lightpink: rgb(12, 6, 0);
+    --bg-color-button: rgb(12, 6, 0);
+    --bg-color-text: rgb(253, 169, 80);
+    --bg-color-icon: url(../images/Logo_dark.png);
     .menu a{color: rgb(253, 169, 80);}
     .basement a{color: rgb(253, 169, 80);}
     p, ul, li{color: #ffffff;}

diff --git a/css/dendro.css b/css/dendro.css
@@ -6,17 +6,21 @@
     --bg-color-yellowgreen: rgba(255, 255, 255, 0.8);
     --bg-color-lightpink: rgb(4, 157, 20);
     --bg-color-button: rgb(4, 157, 20);
+    --bg-color-text: rgb(0, 0, 0);
+    --bg-color-icon: url(../images/Logo_light.png);
     .menu a{color: rgb(0, 0, 0);}
     .basement a{color: rgb(0, 0, 0);}
 }
 [dark] {
     --bg--image: url(../images/background/фон_дендро_ночь.jpg);
-    --bg-color: rgb(16, 48, 39);
-    --bg-color-orange: rgb(2, 32, 5);
-    --bg-color-purple: rgb(6, 58, 11);
-    --bg-color-yellowgreen: rgba(2, 32, 5, 0.9);
-    --bg-color-lightpink: rgb(2, 32, 5);
-    --bg-color-button: rgb(2, 32, 5);
+    --bg-color: rgb(1, 11, 2);
+    --bg-color-orange: rgb(1, 11, 2);
+    --bg-color-purple: rgb(1, 23, 4);
+    --bg-color-yellowgreen: rgba(1, 11, 2, 0.9);
+    --bg-color-lightpink: rgb(1, 11, 2);
+    --bg-color-button: rgb(1, 11, 2);
+    --bg-color-text: #8cff92;
+    --bg-color-icon: url(../images/Logo_dark.png);
     .menu a{color: #8cff92;}
     .basement a{color: #8cff92;}
     p, ul, li{color: rgb(255, 255, 255);}

diff --git a/html/Characters_page/Zhongli.html b/html/Characters_page/Zhongli.html
@@ -16,10 +16,10 @@
         </div>
         <div class="menu">
             <p class="pp1"><a href="../news.html">Новости</a> <a href="../region.html">Регионы</a> <a href="../elements.html">Стихии</a> <a href="../characters.html">Персонажи</a> <a href="../enemies.html">Враги</a> <a href="../tests.html">Тесты</a></p>
-            <button id="tema">Ночь</button>
+            <button id="tema"></button>
         </div>
         <div class="content">
-            <h1>Венти</h1>
+            <h1>Чжун Ли</h1>
             <figure class="sign3">
                 <p><img src="../../images/персонажи/3ЧжунЛи_портрет.webp" alt="picture">
                     Загадочный консультант ритуального бюро "Ваншэн".

diff --git a/javaScript/problem.js b/javaScript/problem.js
@@ -1,16 +1,14 @@
-let temaButton = document.getElementById("tema");
-temaButton.addEventListener("click", darkLightTema);
-let mode = 'light';
-let element = document.getElementById("log");
+temaButton.addEventListener("click", elementsTema);
+let sum = document.get;
 
-function darkLightTema() {
-    if(mode == 'light'){
-        mode = 'dark';
+function elementsTema() {
+    if(sum == 'light'){
+        sum = 'dark';
         document.body.setAttribute('dark', '');
         element.src = "../images/Logo_dark.png";
         localStorage.setItem('theme', 'dark');
     }else{
-        mode = 'light';
+        sum = 'light';
         document.body.removeAttribute('dark');
         element.src = "../images/Logo_light.png";
         localStorage.removeItem('theme');

diff --git a/css/baseColor.css b/css/baseColor.css
@@ -6,6 +6,9 @@
     --bg-color-yellowgreen: rgb(255, 255, 255, 0.8);
     --bg-color-purple: rgb(133, 159, 183);
     --bg-color-button: rgb(50, 96, 161);
+    --bg-color-text: rgb(0, 0, 0);
+    --bg-color-icon: url(../images/Logo_light.png);
+    --bg-color-stihia: rgb(255, 255, 255);
     .menu a{color: rgb(0, 0, 0);}
     .basement a{color: rgb(0, 0, 0);}
 }
@@ -17,6 +20,9 @@
     --bg-color-lightpink: rgb(5, 18, 46);
     --bg-color-yellowgreen: rgb(5, 18, 46, 0.95);
     --bg-color-button: rgb(5, 18, 46);
+    --bg-color-text: #fdff8f;
+    --bg-color-icon: url(../images/Logo_dark.png);
+    --bg-color-stihia: rgb(5, 18, 46);
     .menu a{color: #fdff8f;}
     .basement a{color: #fdff8f;}
     p, ul, li{color: #ffffff;}

diff --git a/html/news.html b/html/news.html
@@ -17,7 +17,7 @@
         </div>
         <div class="menu">
             <p class="pp1"><a href="news.html">Новости</a> <a href="region.html">Регионы</a> <a href="elements.html">Стихии</a> <a href="characters.html">Персонажи</a> <a href="enemies.html">Враги</a> <a href="tests.html">Тесты</a></p>
-            <button id="tema">Ночь</button>
+            <button id="tema"></button>
         </div>
         
 
@@ -206,7 +206,7 @@
     </div>
 
     <script src="../javaScript/news.js"></script>
-    <script src="../javaScript/Dark-light_tema.js"></script>
+    <script src="../javaScript/Dark-light_tema.js"></script><!--Dark-light_tema.js-->
 </body>
 
 </html>
